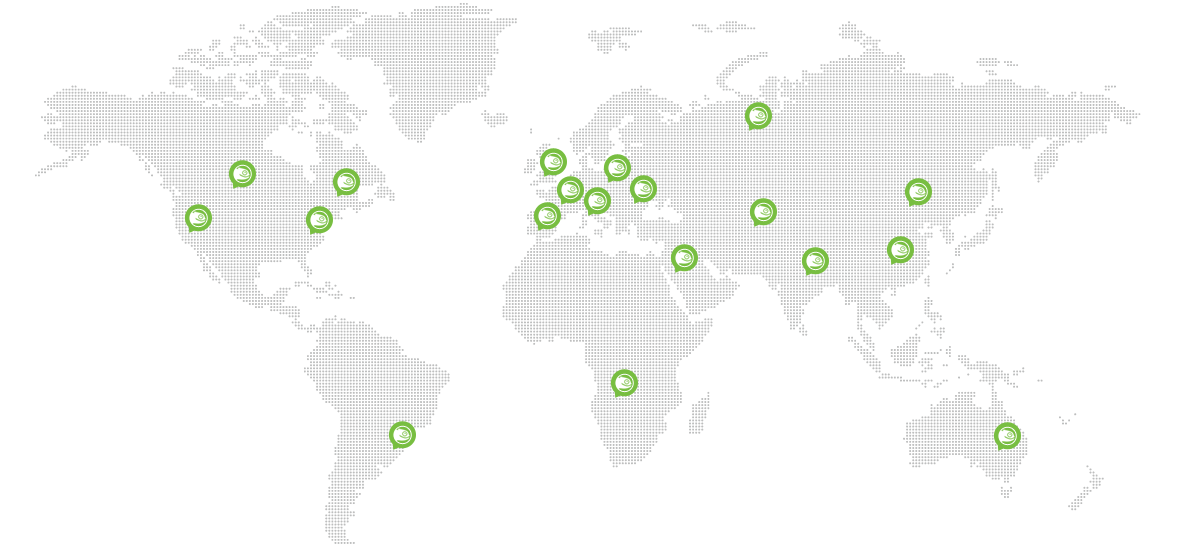
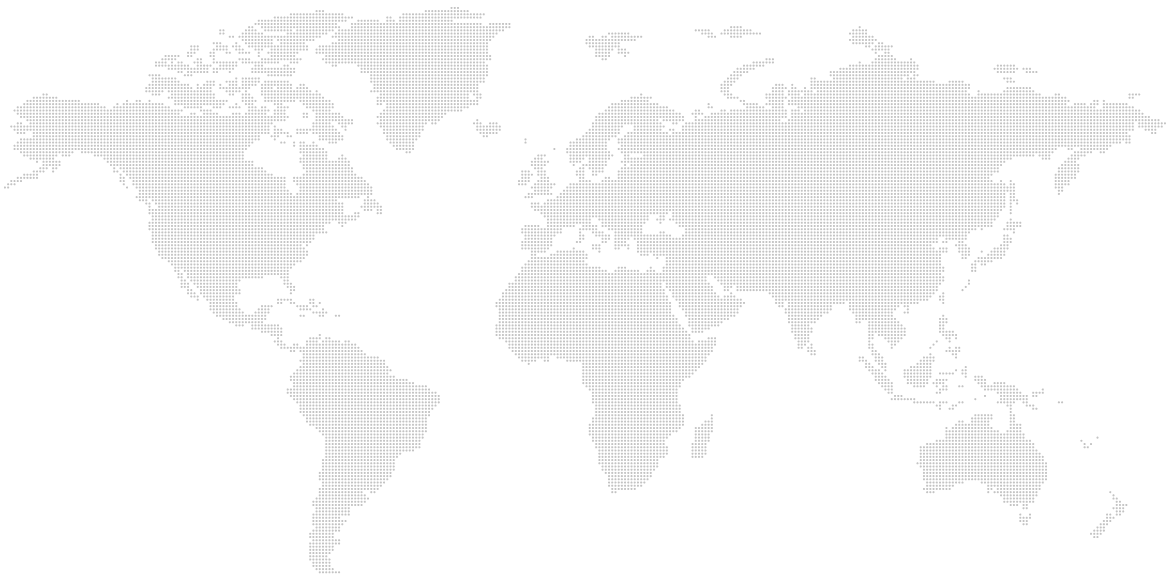
Set correct map image

diff --git a/css/hackweek.css b/css/hackweek.css
@@ -477,8 +477,8 @@ li {
 /**  ******/
 #where{
     background-color: #FFF;
-    background: url('../images/map.svg');
-    background-size: 70% auto;
+    background: url('../images/world-map.png');
+    /*background-size: 70% auto;*/
     background-repeat: no-repeat;
     background-position: center center;
     z-index: 50;
